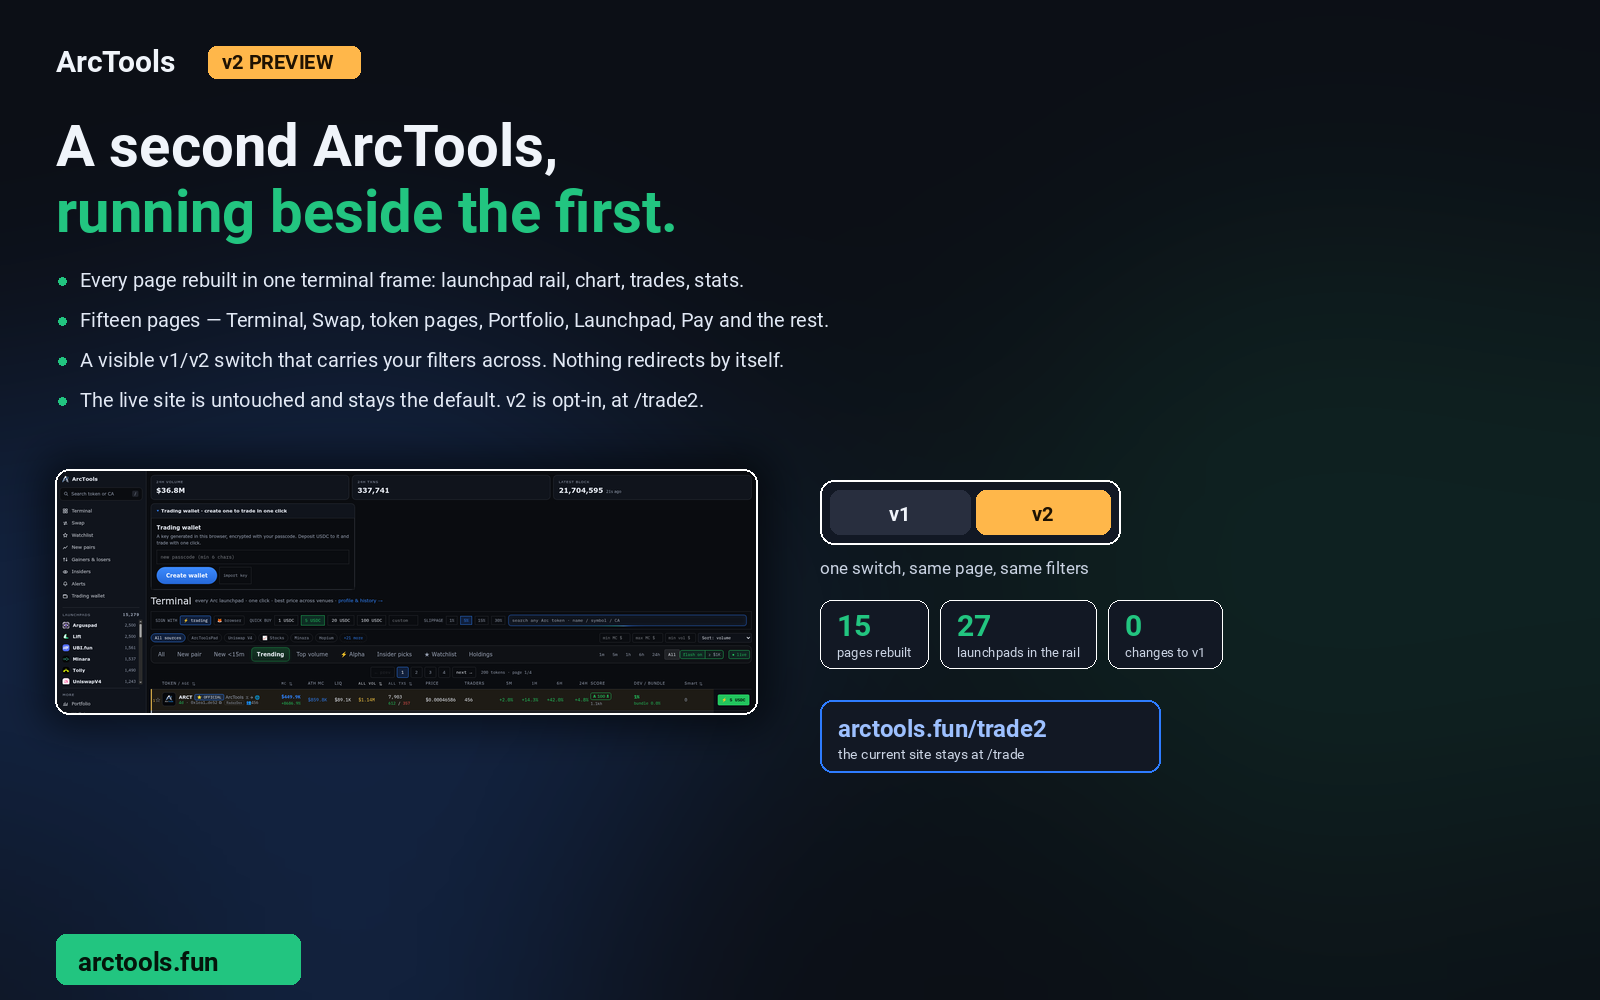
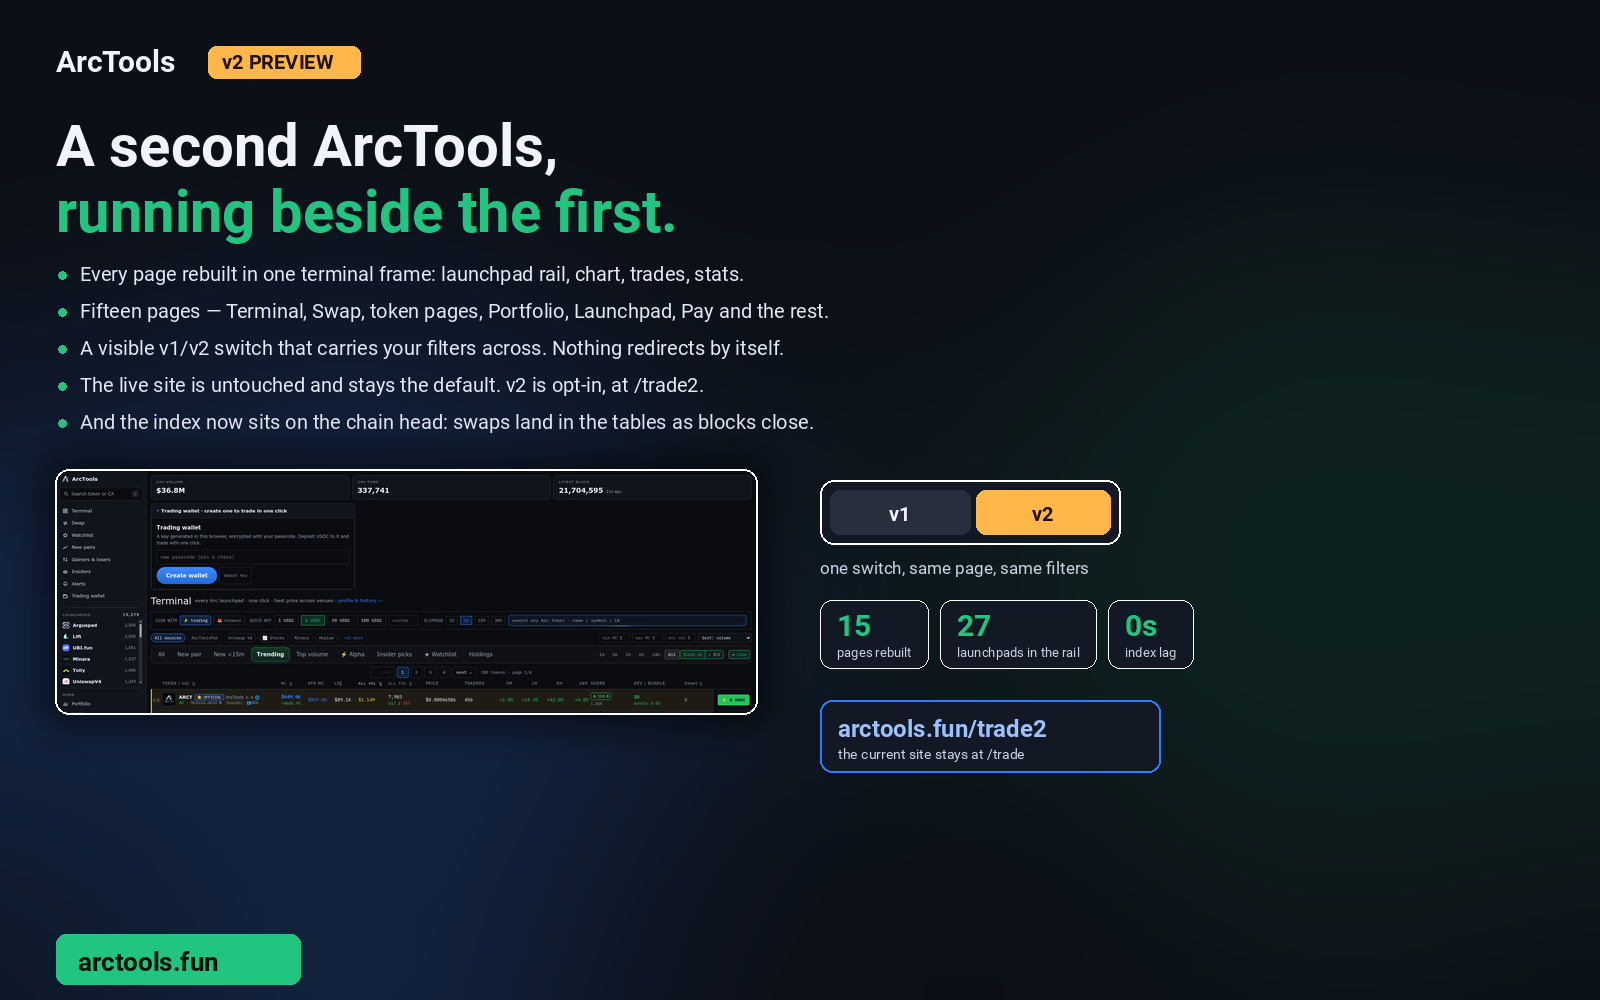
Warsaw node removed from both bots; marketing 64 (real 24 h numbers)
The Warsaw box hung connects for 55 s and stalled the buybot's scan (68 s/window) and the sniper's buys
(0/27) on two separate days. Gone from ARC_RPC_URLS in both services, from BACKUP_RPC, and from the four
hard-coded defaults in the buybot. sharc.fun/rpc (405 on broadcast) dropped from the sniper too.
/api/db-maint?action=wallets: distinct wallets 24 h / 7 d, swaps 24 h, tokens traded — the numbers the
graphic uses, straight from the table.

Changed region(s): [[0.0312, 0.248, 0.5312, 0.434], [0.7188, 0.651, 0.75, 0.682]]

diff --git a/marketing/src/compose_64.py b/marketing/src/compose_64.py
@@ -1,0 +1,71 @@
+"""64 — what the Terminal does, and what it sees: real numbers from the index (20 Sep 2026)."""
+from PIL import Image, ImageDraw, ImageFilter, ImageFont
+
+W, H = 1600, 1000
+NAVY = (12, 15, 22); COB = (46, 124, 255); GRN = (34, 197, 128); INK = (240, 244, 250); MUTED = (203, 212, 228)
+AMBER = (255, 183, 74)
+F = '/home/user/fcf97205-5c29-4875-892f-2f389526e585/gridbot-video/assets/Roboto-Bold.ttf'
+R = '/home/user/fcf97205-5c29-4875-892f-2f389526e585/gridbot-video/assets/Roboto-Regular.ttf'
+f = lambda s, p=F: ImageFont.truetype(p, s)
+
+# measured 20 Sep 2026, /api/db-maint?action=wallets and /api/trending 24h — not estimates
+STATS = [
+    ('704,877', 'swaps indexed in 24 h'),
+    ('33,470', 'wallets traded in 24 h'),
+    ('181,568', 'wallets seen this week'),
+    ('$51.4M', 'volume in 24 h'),
+    ('6,186', 'tokens traded in 24 h'),
+    ('24', 'launchpads in one table'),
+]
+FEATURES = [
+    ('Every launchpad, one table', 'ArcPad, Uniswap V3/V4, Arguspad, Tolly, peach.ag, hopium.gg and 18 more. Price, cap, liquidity, 5M/1H/6H/24H.'),
+    ('One-click buys', 'A wallet that never leaves your browser. Pick an amount, hit buy. The aggregator finds the venue.'),
+    ('Dev and bundle risk', 'Net dev activity, launch-block wallets, top-10 share, a sell simulation before you buy.'),
+    ('Index on the chain head', 'A swap lands in the table as its block closes. Live feed, no polling.'),
+    ('Insiders, not influencers', 'The wallets that were early last time, ranked by what they actually made.'),
+    ('Spam filtered', 'Clone farms minting one name eighty times are hidden from the default view.'),
+]
+
+bg = Image.new('RGBA', (W, H), NAVY + (255,))
+glow = Image.new('RGBA', (W, H), (0, 0, 0, 0)); gd = ImageDraw.Draw(glow)
+gd.ellipse((-200, -100, 800, 700), fill=COB + (46,))
+gd.ellipse((900, 400, 1800, 1200), fill=GRN + (30,))
+bg = Image.alpha_composite(bg, glow.filter(ImageFilter.GaussianBlur(170)))
+d = ImageDraw.Draw(bg)
+
+d.text((56, 44), 'ArcTools', font=f(30), fill=INK)
+d.rounded_rectangle((208, 46, 396, 78), radius=8, fill=COB)
+d.text((222, 50), 'TERMINAL · 24H', font=f(20), fill=INK)
+d.text((56, 104), 'What the Terminal sees', font=f(54), fill=INK)
+d.text((56, 166), 'in one day on Arc.', font=f(54), fill=GRN)
+
+# stat tiles: 3 x 2
+tx, ty, tw, th, gap = 56, 250, 470, 118, 14
+for i, (big, lab) in enumerate(STATS):
+    x = tx + (i % 3) * (tw + gap); y = ty + (i // 3) * (th + gap)
+    d.rounded_rectangle((x, y, x + tw, y + th), radius=14, fill=(18, 24, 36, 235), outline=(255, 255, 255, 40))
+    d.text((x + 22, y + 18), big, font=f(44), fill=GRN if i in (0, 3) else INK)
+    d.text((x + 22, y + 78), lab, font=f(16, R), fill=MUTED)
+
+# feature list: 2 x 3
+fx, fy = 56, 540
+colw = 726
+for i, (title, body) in enumerate(FEATURES):
+    x = fx + (i % 2) * (colw + 36); y = fy + (i // 2) * 118
+    d.ellipse((x, y + 10, x + 10, y + 20), fill=GRN)
+    d.text((x + 22, y), title, font=f(22), fill=INK)
+    # wrap body to the column
+    words = body.split(); line = ''; yy = y + 34
+    for w_ in words:
+        t = (line + ' ' + w_).strip()
+        if d.textlength(t, font=f(15, R)) > colw - 22:
+            d.text((x + 22, yy), line, font=f(15, R), fill=MUTED); yy += 22; line = w_
+        else:
+            line = t
+    if line: d.text((x + 22, yy), line, font=f(15, R), fill=MUTED)
+
+d.rounded_rectangle((56, H - 66, 300, H - 16), radius=10, fill=GRN)
+d.text((78, H - 54), 'arctools.fun', font=f(26), fill=(4, 20, 10))
+d.text((330, H - 50), 'numbers from our own index · 20 Sep 2026 · mobile app next week', font=f(15, R), fill=MUTED)
+bg.convert('RGB').save('64-terminal-stats.png', quality=95)
+print('64-terminal-stats.png')

diff --git a/marketing/src/compose_63.py b/marketing/src/compose_63.py
@@ -1,0 +1,61 @@
+"""63 — real screenshot of the live Terminal + mobile app next week."""
+from PIL import Image, ImageDraw, ImageFilter, ImageFont
+
+W, H = 1600, 1000
+NAVY = (12, 15, 22); COB = (46, 124, 255); GRN = (34, 197, 128); INK = (240, 244, 250); MUTED = (203, 212, 228)
+F = '/home/user/fcf97205-5c29-4875-892f-2f389526e585/gridbot-video/assets/Roboto-Bold.ttf'
+R = '/home/user/fcf97205-5c29-4875-892f-2f389526e585/gridbot-video/assets/Roboto-Regular.ttf'
+f = lambda s, p=F: ImageFont.truetype(p, s)
+
+bg = Image.new('RGBA', (W, H), NAVY + (255,))
+glow = Image.new('RGBA', (W, H), (0, 0, 0, 0)); gd = ImageDraw.Draw(glow)
+gd.ellipse((-200, 300, 700, 1100), fill=COB + (50,))
+gd.ellipse((1000, -100, 1800, 600), fill=GRN + (28,))
+bg = Image.alpha_composite(bg, glow.filter(ImageFilter.GaussianBlur(160)))
+d = ImageDraw.Draw(bg)
+
+d.text((56, 44), 'ArcTools', font=f(30), fill=INK)
+d.rounded_rectangle((208, 46, 330, 78), radius=8, fill=GRN)
+d.text((222, 50), 'LIVE NOW', font=f(20), fill=(4, 20, 10))
+
+d.text((56, 108), 'The Terminal is live.', font=f(56), fill=INK)
+d.text((56, 172), 'The app is next.', font=f(56), fill=GRN)
+
+lines = [
+    'Every Arc launchpad in one table: price, cap, liquidity, 5M / 1H / 6H / 24H, dev & bundle risk.',
+    'One-click buys with a wallet that never leaves your browser.',
+    'The index sits on the chain head: swaps land as the blocks close.',
+    'Mobile app: next week.',
+]
+yy = 258
+for i, t in enumerate(lines):
+    d.ellipse((58, yy + 9, 66, yy + 17), fill=GRN if i < 3 else COB)
+    d.text((80, yy), t, font=f(20, R if i < 3 else F), fill=(226, 233, 245) if i < 3 else INK)
+    yy += 38
+
+# the real screenshot — the terminal as it renders today, not a mockup
+shot = Image.open('assets/63-shot.png').convert('RGB')
+# crop the top of the page: rail + chain strip + table header + first rows
+shot = shot.crop((0, 0, 1920, 640))
+cw = 1488
+shot = shot.resize((cw, int(shot.height * cw / shot.width)), Image.LANCZOS)
+cx, cy = 56, 425
+sh = Image.new('RGBA', (W, H), (0, 0, 0, 0))
+ImageDraw.Draw(sh).rounded_rectangle((cx - 16, cy - 16, cx + shot.width + 16, cy + shot.height + 16), radius=26, fill=(0, 0, 0, 150))
+bg = Image.alpha_composite(bg, sh.filter(ImageFilter.GaussianBlur(20)))
+mask = Image.new('L', shot.size, 0); ImageDraw.Draw(mask).rounded_rectangle((0, 0, shot.width, shot.height), radius=16, fill=255)
+bg.paste(shot, (cx, cy), mask)
+d = ImageDraw.Draw(bg)
+d.rounded_rectangle((cx - 1, cy - 1, cx + shot.width + 1, cy + shot.height + 1), radius=16, outline=(255, 255, 255, 70), width=2)
+# fade the bottom of the screenshot into the background so the crop does not read as a hard cut
+fade = Image.new('RGBA', (shot.width, 120), (0, 0, 0, 0)); fd = ImageDraw.Draw(fade)
+for i in range(120):
+    fd.line((0, i, shot.width, i), fill=NAVY + (int(255 * (i / 120) ** 1.6),))
+bg.alpha_composite(fade, (cx, cy + shot.height - 120))
+d = ImageDraw.Draw(bg)
+
+d.rounded_rectangle((56, H - 66, 300, H - 16), radius=10, fill=GRN)
+d.text((78, H - 54), 'arctools.fun', font=f(26), fill=(4, 20, 10))
+d.text((330, H - 50), 'real screenshot · 20 Sep 2026', font=f(15, R), fill=MUTED)
+bg.convert('RGB').save('63-terminal-live.png', quality=95)
+print('63-terminal-live.png', shot.size, 'bottom', cy + shot.height)

diff --git a/buybot/buybot/dbmaint.py b/buybot/buybot/dbmaint.py
@@ -123,6 +123,21 @@ async def api(req):
                 return web.json_response({"error": f"not prunable: {table}"}, status=400)
             return web.json_response(await prune(table, max(3, min(180, int(req.query.get("days", "21")))),
                                                  max(1, min(60, int(req.query.get("batches", "10"))))))
+        if action == "wallets":
+            # the numbers marketing keeps asking for: distinct wallets we saw trade, and how many the insider
+            # index ranks — from the data, not from a guess
+            now = int(time.time())
+            r = await db.fetchone(text("""
+                SELECT COUNT(DISTINCT wallet) FILTER (WHERE ts > :d1) AS w24,
+                       COUNT(DISTINCT wallet) FILTER (WHERE ts > :d7) AS w7,
+                       COUNT(*) FILTER (WHERE ts > :d1) AS s24,
+                       COUNT(DISTINCT token) FILTER (WHERE ts > :d1) AS t24
+                  FROM swaps
+            """).bindparams(d1=now - 86400, d7=now - 7 * 86400))
+            ins = await db.fetchone(text("SELECT COUNT(*) AS n FROM insider_scores")) if await _has_table("insider_scores") else {"n": None}
+            return web.json_response({"wallets_24h": int(r["w24"] or 0), "wallets_7d": int(r["w7"] or 0),
+                                      "swaps_24h": int(r["s24"] or 0), "tokens_traded_24h": int(r["t24"] or 0),
+                                      "insiders_ranked": (int(ins["n"]) if ins and ins.get("n") is not None else None)})
         if action == "truncate":
             table = req.query.get("table", "")
             if table not in PRUNABLE and table not in ("wallet_balance", "kol_following"):
@@ -159,6 +174,14 @@ async def truncate_empty(table: str) -> dict:
     await db.execute(text(f"TRUNCATE TABLE {table}"))                          # noqa: S608 - name is allow-listed
     after = await db.fetchone(text("SELECT pg_total_relation_size(:t) AS v").bindparams(t=table))
     return {"table": table, "freed_mb": round((int(before["v"]) - int(after["v"])) / 1e6, 1)}
+
+async def _has_table(name: str) -> bool:
+    try:
+        r = await db.fetchone(text("SELECT 1 FROM information_schema.tables WHERE table_name = :t").bindparams(t=name))
+        return bool(r)
+    except Exception:  # noqa
+        return False
+
 
 async def _has_life() -> bool:
     try:

diff --git a/marketing/src/compose_62.py b/marketing/src/compose_62.py
@@ -28,12 +28,13 @@ lines = [
     'Fifteen pages — Terminal, Swap, token pages, Portfolio, Launchpad, Pay and the rest.',
     'A visible v1/v2 switch that carries your filters across. Nothing redirects by itself.',
     'The live site is untouched and stays the default. v2 is opt-in, at /trade2.',
+    'And the index now sits on the chain head: swaps land in the tables as blocks close.',
 ]
-yy = 268
+yy = 262
 for t in lines:
     d.ellipse((58, yy + 9, 66, yy + 17), fill=GRN)
     d.text((80, yy), t, font=f(20, R), fill=(226, 233, 245))
-    yy += 40
+    yy += 37
 
 # screenshot card
 shot = Image.open('assets/62-trade2.png').convert('RGB')
@@ -59,7 +60,7 @@ d.text((sx + 223, sy + 22), 'v2', font=f(20), fill=(30, 18, 2), anchor='ma')
 d.text((sx, sy + 78), 'one switch, same page, same filters', font=f(17, R), fill=MUTED)
 
 # stat chips
-chips = [('15', 'pages rebuilt'), ('27', 'launchpads in the rail'), ('0', 'changes to v1')]
+chips = [('15', 'pages rebuilt'), ('27', 'launchpads in the rail'), ('0s', 'index lag')]
 cxx = 820
 for big, lab in chips:
     wb = d.textlength(big, font=f(30)); wl = d.textlength(lab, font=f(13, R)); cw2 = int(max(wb, wl) + 34)

diff --git a/buybot/buybot/rpc_monitor.py b/buybot/buybot/rpc_monitor.py
@@ -28,7 +28,7 @@ from .config import CFG
 log = logging.getLogger("rpc_monitor")
 
 PRIMARY = os.getenv("PRIMARY_RPC", "http://178.156.197.90:8545")     # US box, next door to Railway
-BACKUP = os.getenv("BACKUP_RPC", "http://89.68.166.52:8545")        # original Warsaw box, now the fallback
+BACKUP = os.getenv("BACKUP_RPC", "http://178.156.197.90:8545")        # original Warsaw box, now the fallback
 ENDPOINTS: list[tuple[str, str]] = [("node", PRIMARY), ("node-backup", BACKUP)] + [
     (u.split("//")[1].split("/")[0].replace("rpc.", "").replace(".up.railway.app", " (relay)"), u)
     for u in (CFG.rpc_urls if hasattr(CFG, "rpc_urls") else [])

diff --git a/buybot/buybot/pads_registry.py b/buybot/buybot/pads_registry.py
@@ -25,7 +25,7 @@ from . import db
 log = logging.getLogger("pads")
 CORS = {"Access-Control-Allow-Origin": "*"}
 RELAY = os.getenv("RELAY_URL", "https://rpc-production-ba7a.up.railway.app")
-NODE = os.getenv("PRIMARY_RPC", "http://89.68.166.52:8545")   # own reth node: no rate limit → symbols resolve on first sight
+NODE = os.getenv("PRIMARY_RPC", "http://178.156.197.90:8545")   # own reth node: no rate limit → symbols resolve on first sight
 SCAN = "https://api.arc-scan.org/v1"
[1 lines of base64/hex data omitted]
 V3_POS_NFT = "0x39654a85a4c05127f5fd6ed22caec077a0fb1377"

diff --git a/buybot/buybot/insider.py b/buybot/buybot/insider.py
@@ -1362,7 +1362,7 @@ _RECEIPT_TOPICS = (V3_SWAP_TOPIC, V2_SWAP_TOPIC, ARCPAD_TRADE_TOPIC, V4_SWAP_TOP
 # chain would silently starve the index, so node_rpc() keeps using the backup until the primary is caught up.
 # rpc_monitor refreshes _node_state every 20 s; the initial value assumes primary is fine.
 _PRIMARY_RPC = os.getenv("PRIMARY_RPC", "http://178.156.197.90:8545")
-_BACKUP_RPC = os.getenv("BACKUP_RPC", "http://89.68.166.52:8545")
+_BACKUP_RPC = os.getenv("BACKUP_RPC", "http://178.156.197.90:8545")
 _node_state: dict[str, object] = {"use": _PRIMARY_RPC, "primary_ok": True, "primary_lag": 0, "since": 0.0}
 
 

diff --git a/buybot/buybot/logos.py b/buybot/buybot/logos.py
@@ -25,7 +25,7 @@ from sqlalchemy import text
 from . import db
 
 log = logging.getLogger("logos")
-NODE = os.getenv("PRIMARY_RPC", "http://89.68.166.52:8545")
+NODE = os.getenv("PRIMARY_RPC", "http://178.156.197.90:8545")
 RELAY = os.getenv("RELAY_URL", "https://rpc-production-ba7a.up.railway.app")
 HDR = {"Content-Type": "application/json", "X-Relay-Key": os.getenv("RELAY_KEY", ""), "X-Priority": "high"}
 UA = {"User-Agent": "Mozilla/5.0 (compatible; ArcTools/1.0; +https://arctools.fun)"}

diff --git a/marketing/64-terminal-stats-post.md b/marketing/64-terminal-stats-post.md
@@ -1,0 +1,35 @@
+# 64 — What the Terminal sees in one day (real numbers, 20 Sep 2026)
+
+## Main post
+
+One day on Arc, as our own index saw it yesterday:
+
+704,877 swaps.
+33,470 wallets that traded.
+181,568 wallets seen this week.
+$51.4M in volume across 6,186 tokens.
+24 launchpads, in one table.
+
+That is what the ArcTools Terminal is built on. Not a scraper, not someone else's API — our own node, our own index, a swap in the table as its block closes.
+
+What you do with it:
+— every launchpad in one list, with price, cap, liquidity and 5M/1H/6H/24H
+— one-click buys from a wallet that never leaves your browser
+— dev and bundle risk on every row: net dev activity, launch-block wallets, a sell simulation before you buy
+— the insider index: the wallets that were early last time, ranked by what they actually made
+— clone farms hidden — one name minted eighty times does not get to own your screen
+
+Mobile app: next week.
+
+arctools.fun
+
+## Short variant
+
+704,877 swaps. 33,470 wallets. $51.4M volume. 24 launchpads. One day on Arc, one table — from our own index, live on the chain head.
+
+arctools.fun
+
+## Notes
+- Every number is from /api/db-maint?action=wallets and /api/trending?minutes=1440 at 08:55 UTC, 20 Sep 2026. Re-pull before publishing if it is a different day.
+- "wallets seen this week" = distinct wallets with at least one swap in 7 d. Do not call them "users".
+- "Mobile app next week" is a commitment — confirm the date.

diff --git a/marketing/63-terminal-live-post.md b/marketing/63-terminal-live-post.md
@@ -1,0 +1,26 @@
+# 63 — Terminal is live, app next week
+
+## Main post
+
+This is the ArcTools Terminal today. Not a mockup — a screenshot from this morning.
+
+Every Arc launchpad in one table. Price, cap, liquidity, 5M / 1H / 6H / 24H, who is buying, and whether the dev or the launch-block wallets are cashing out. One click buys with a wallet that never leaves your browser.
+
+The index sits on the chain head: a swap lands in the table as the block closes.
+
+Next week the mobile app goes live. Same terminal, same wallet, in your pocket.
+
+If you have been waiting for the right moment to get positioned on Arc, this is the week before the door gets wider.
+
+arctools.fun
+
+## Short variant
+
+The Terminal is live. The app is next week. Every Arc launchpad, one table, one-click buys, index on the chain head. A good week to build a position before the mobile crowd arrives.
+
+arctools.fun
+
+## Notes
+- The screenshot is real (/trade2, 20 Sep 2026) — say so; it is the point.
+- "Next week" is a commitment. If the app slips, this post ages badly — confirm the date before publishing.
+- No price predictions, no "guaranteed". "Build a position" is as far as it goes.
